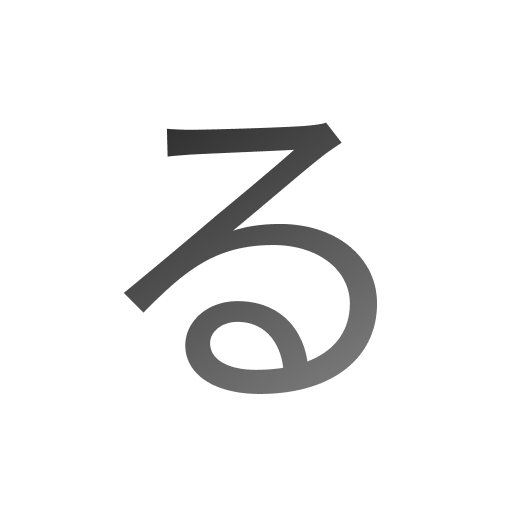
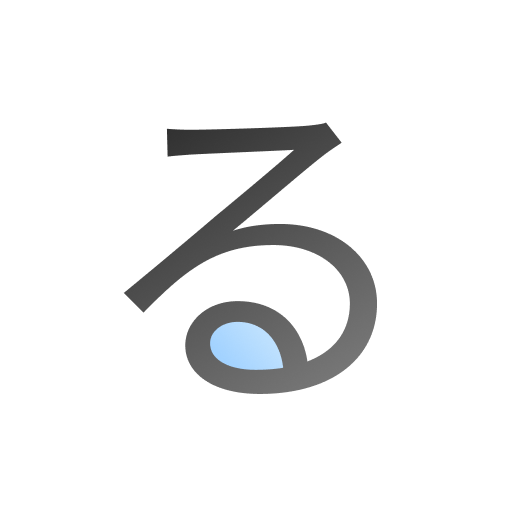
Updates

Changed region(s): [[0.4062, 0.625, 0.5625, 0.75]]

diff --git a/sw.js b/sw.js
@@ -1,1 +1,1 @@
-if(!self.define){let e,s={};const r=(r,i)=>(r=new URL(r+".js",i).href,s[r]||new Promise((s=>{if("document"in self){const e=document.createElement("script");e.src=r,e.onload=s,document.head.appendChild(e)}else e=r,importScripts(r),s()})).then((()=>{let e=s[r];if(!e)throw new Error(`Module ${r} didn’t register its module`);return e})));self.define=(i,n)=>{const l=e||("document"in self?document.currentScript.src:"")||location.href;if(s[l])return;let o={};const t=e=>r(e,l),u={module:{uri:l},exports:o,require:t};s[l]=Promise.all(i.map((e=>u[e]||t(e)))).then((e=>(n(...e),o)))}}define(["./workbox-3e911b1d"],(function(e){"use strict";self.skipWaiting(),e.clientsClaim(),e.precacheAndRoute([{url:"assets/FileLoader-BNI2UNoF.js",revision:null},{url:"assets/index-BH7V8FgJ.js",revision:null},{url:"assets/index-BlUZlfA_.css",revision:null},{url:"assets/N1NounLoader-P6xKwhxZ.js",revision:null},{url:"assets/N1VerbLoader-D8Zqe7ES.js",revision:null},{url:"assets/N2AdjectiveLoader-C1b6KfgE.js",revision:null},{url:"assets/N2AdverbLoader-tqntMUCc.js",revision:null},{url:"assets/N2NounLoader-BKhth3lo.js",revision:null},{url:"assets/N2VerbLoader-D0U3mXZT.js",revision:null},{url:"assets/N5AdjectiveLoader-4CvJs9KO.js",revision:null},{url:"assets/N5AdverbLoader-B6RaU-BL.js",revision:null},{url:"assets/N5NounLoader-pTWXV203.js",revision:null},{url:"assets/N5VerbLoader-nKlAXwuK.js",revision:null},{url:"index.html",revision:"e5c7fc93b20bcef14cac66ac47af43bb"},{url:"registerSW.js",revision:"199d7372245ad158580acfee7fb8bd26"},{url:"icon.png",revision:"c6e3f9150d63e79bdfada047e8c7a88a"},{url:"manifest.webmanifest",revision:"14c39c137a96b544910aa4826d10ded0"}],{}),e.cleanupOutdatedCaches(),e.registerRoute(new e.NavigationRoute(e.createHandlerBoundToURL("index.html")))}));
+if(!self.define){let e,s={};const r=(r,i)=>(r=new URL(r+".js",i).href,s[r]||new Promise((s=>{if("document"in self){const e=document.createElement("script");e.src=r,e.onload=s,document.head.appendChild(e)}else e=r,importScripts(r),s()})).then((()=>{let e=s[r];if(!e)throw new Error(`Module ${r} didn’t register its module`);return e})));self.define=(i,n)=>{const l=e||("document"in self?document.currentScript.src:"")||location.href;if(s[l])return;let o={};const t=e=>r(e,l),u={module:{uri:l},exports:o,require:t};s[l]=Promise.all(i.map((e=>u[e]||t(e)))).then((e=>(n(...e),o)))}}define(["./workbox-3e911b1d"],(function(e){"use strict";self.skipWaiting(),e.clientsClaim(),e.precacheAndRoute([{url:"assets/FileLoader-BNI2UNoF.js",revision:null},{url:"assets/index-BH7V8FgJ.js",revision:null},{url:"assets/index-BlUZlfA_.css",revision:null},{url:"assets/N1NounLoader-P6xKwhxZ.js",revision:null},{url:"assets/N1VerbLoader-D8Zqe7ES.js",revision:null},{url:"assets/N2AdjectiveLoader-C1b6KfgE.js",revision:null},{url:"assets/N2AdverbLoader-tqntMUCc.js",revision:null},{url:"assets/N2NounLoader-BKhth3lo.js",revision:null},{url:"assets/N2VerbLoader-D0U3mXZT.js",revision:null},{url:"assets/N5AdjectiveLoader-4CvJs9KO.js",revision:null},{url:"assets/N5AdverbLoader-B6RaU-BL.js",revision:null},{url:"assets/N5NounLoader-pTWXV203.js",revision:null},{url:"assets/N5VerbLoader-nKlAXwuK.js",revision:null},{url:"index.html",revision:"e5c7fc93b20bcef14cac66ac47af43bb"},{url:"registerSW.js",revision:"199d7372245ad158580acfee7fb8bd26"},{url:"icon.png",revision:"fc51b6c9a96c03d2f4ce6676c923f3b7"},{url:"manifest.webmanifest",revision:"14c39c137a96b544910aa4826d10ded0"}],{}),e.cleanupOutdatedCaches(),e.registerRoute(new e.NavigationRoute(e.createHandlerBoundToURL("index.html")))}));
